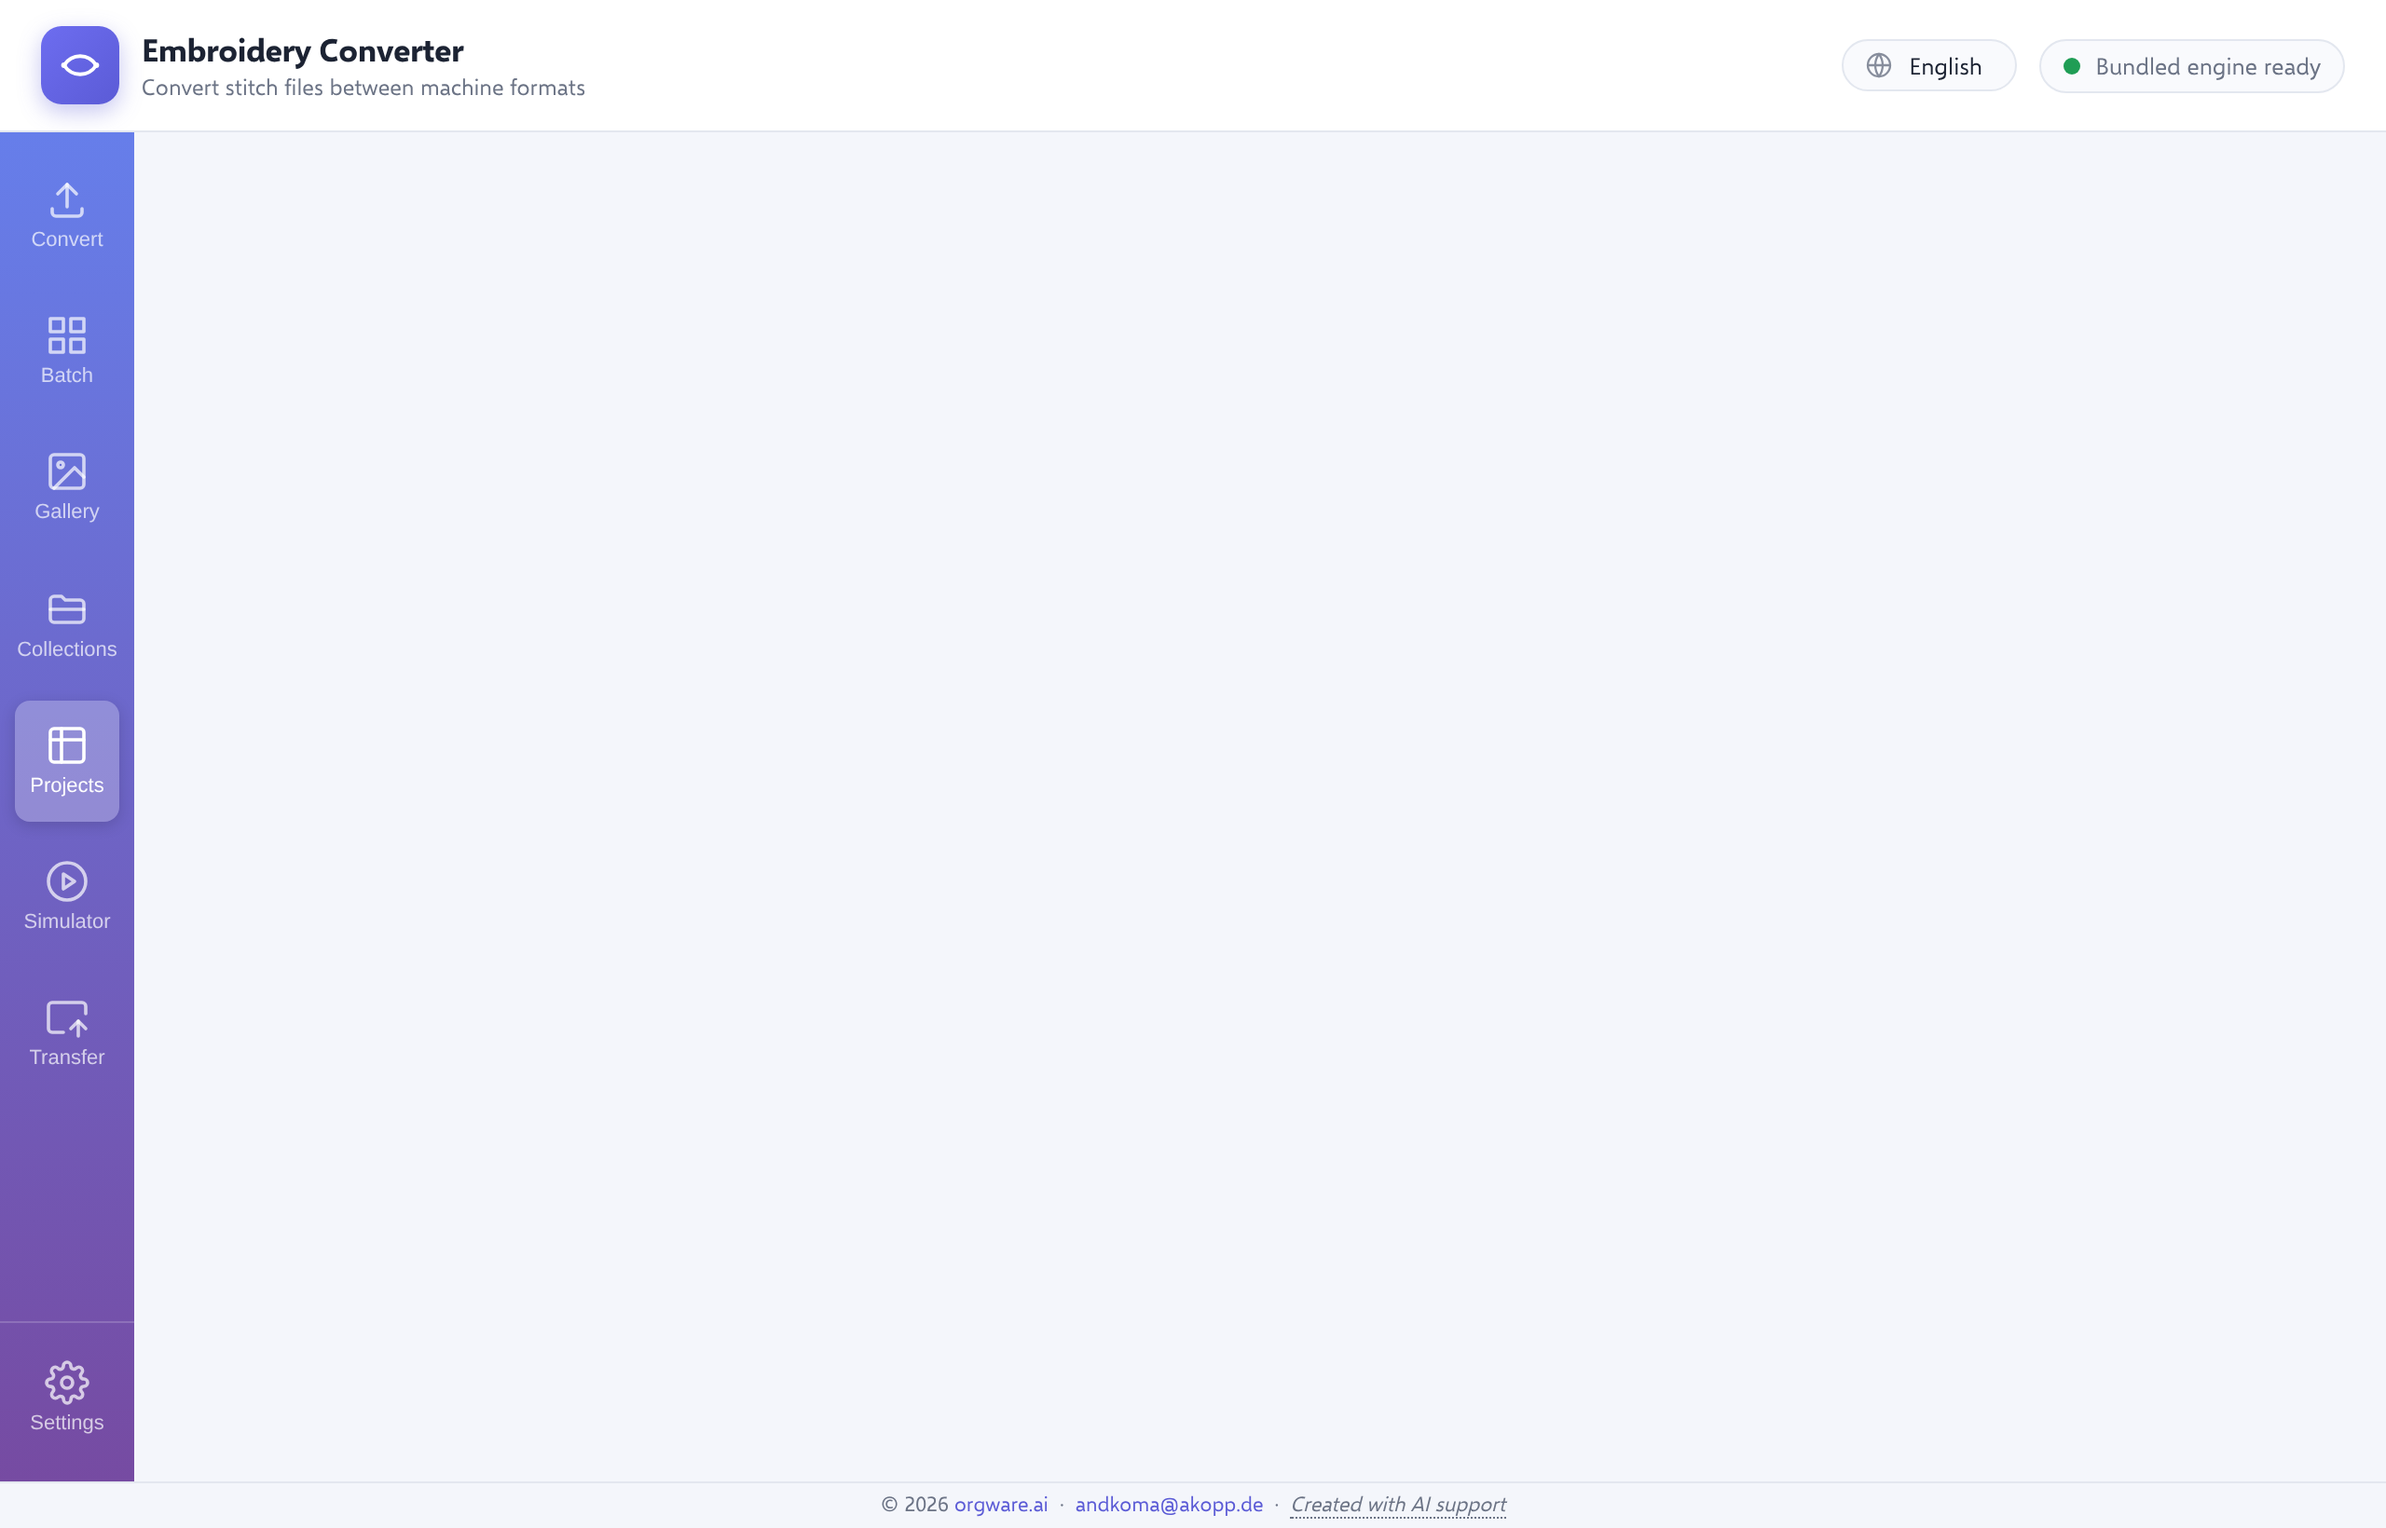
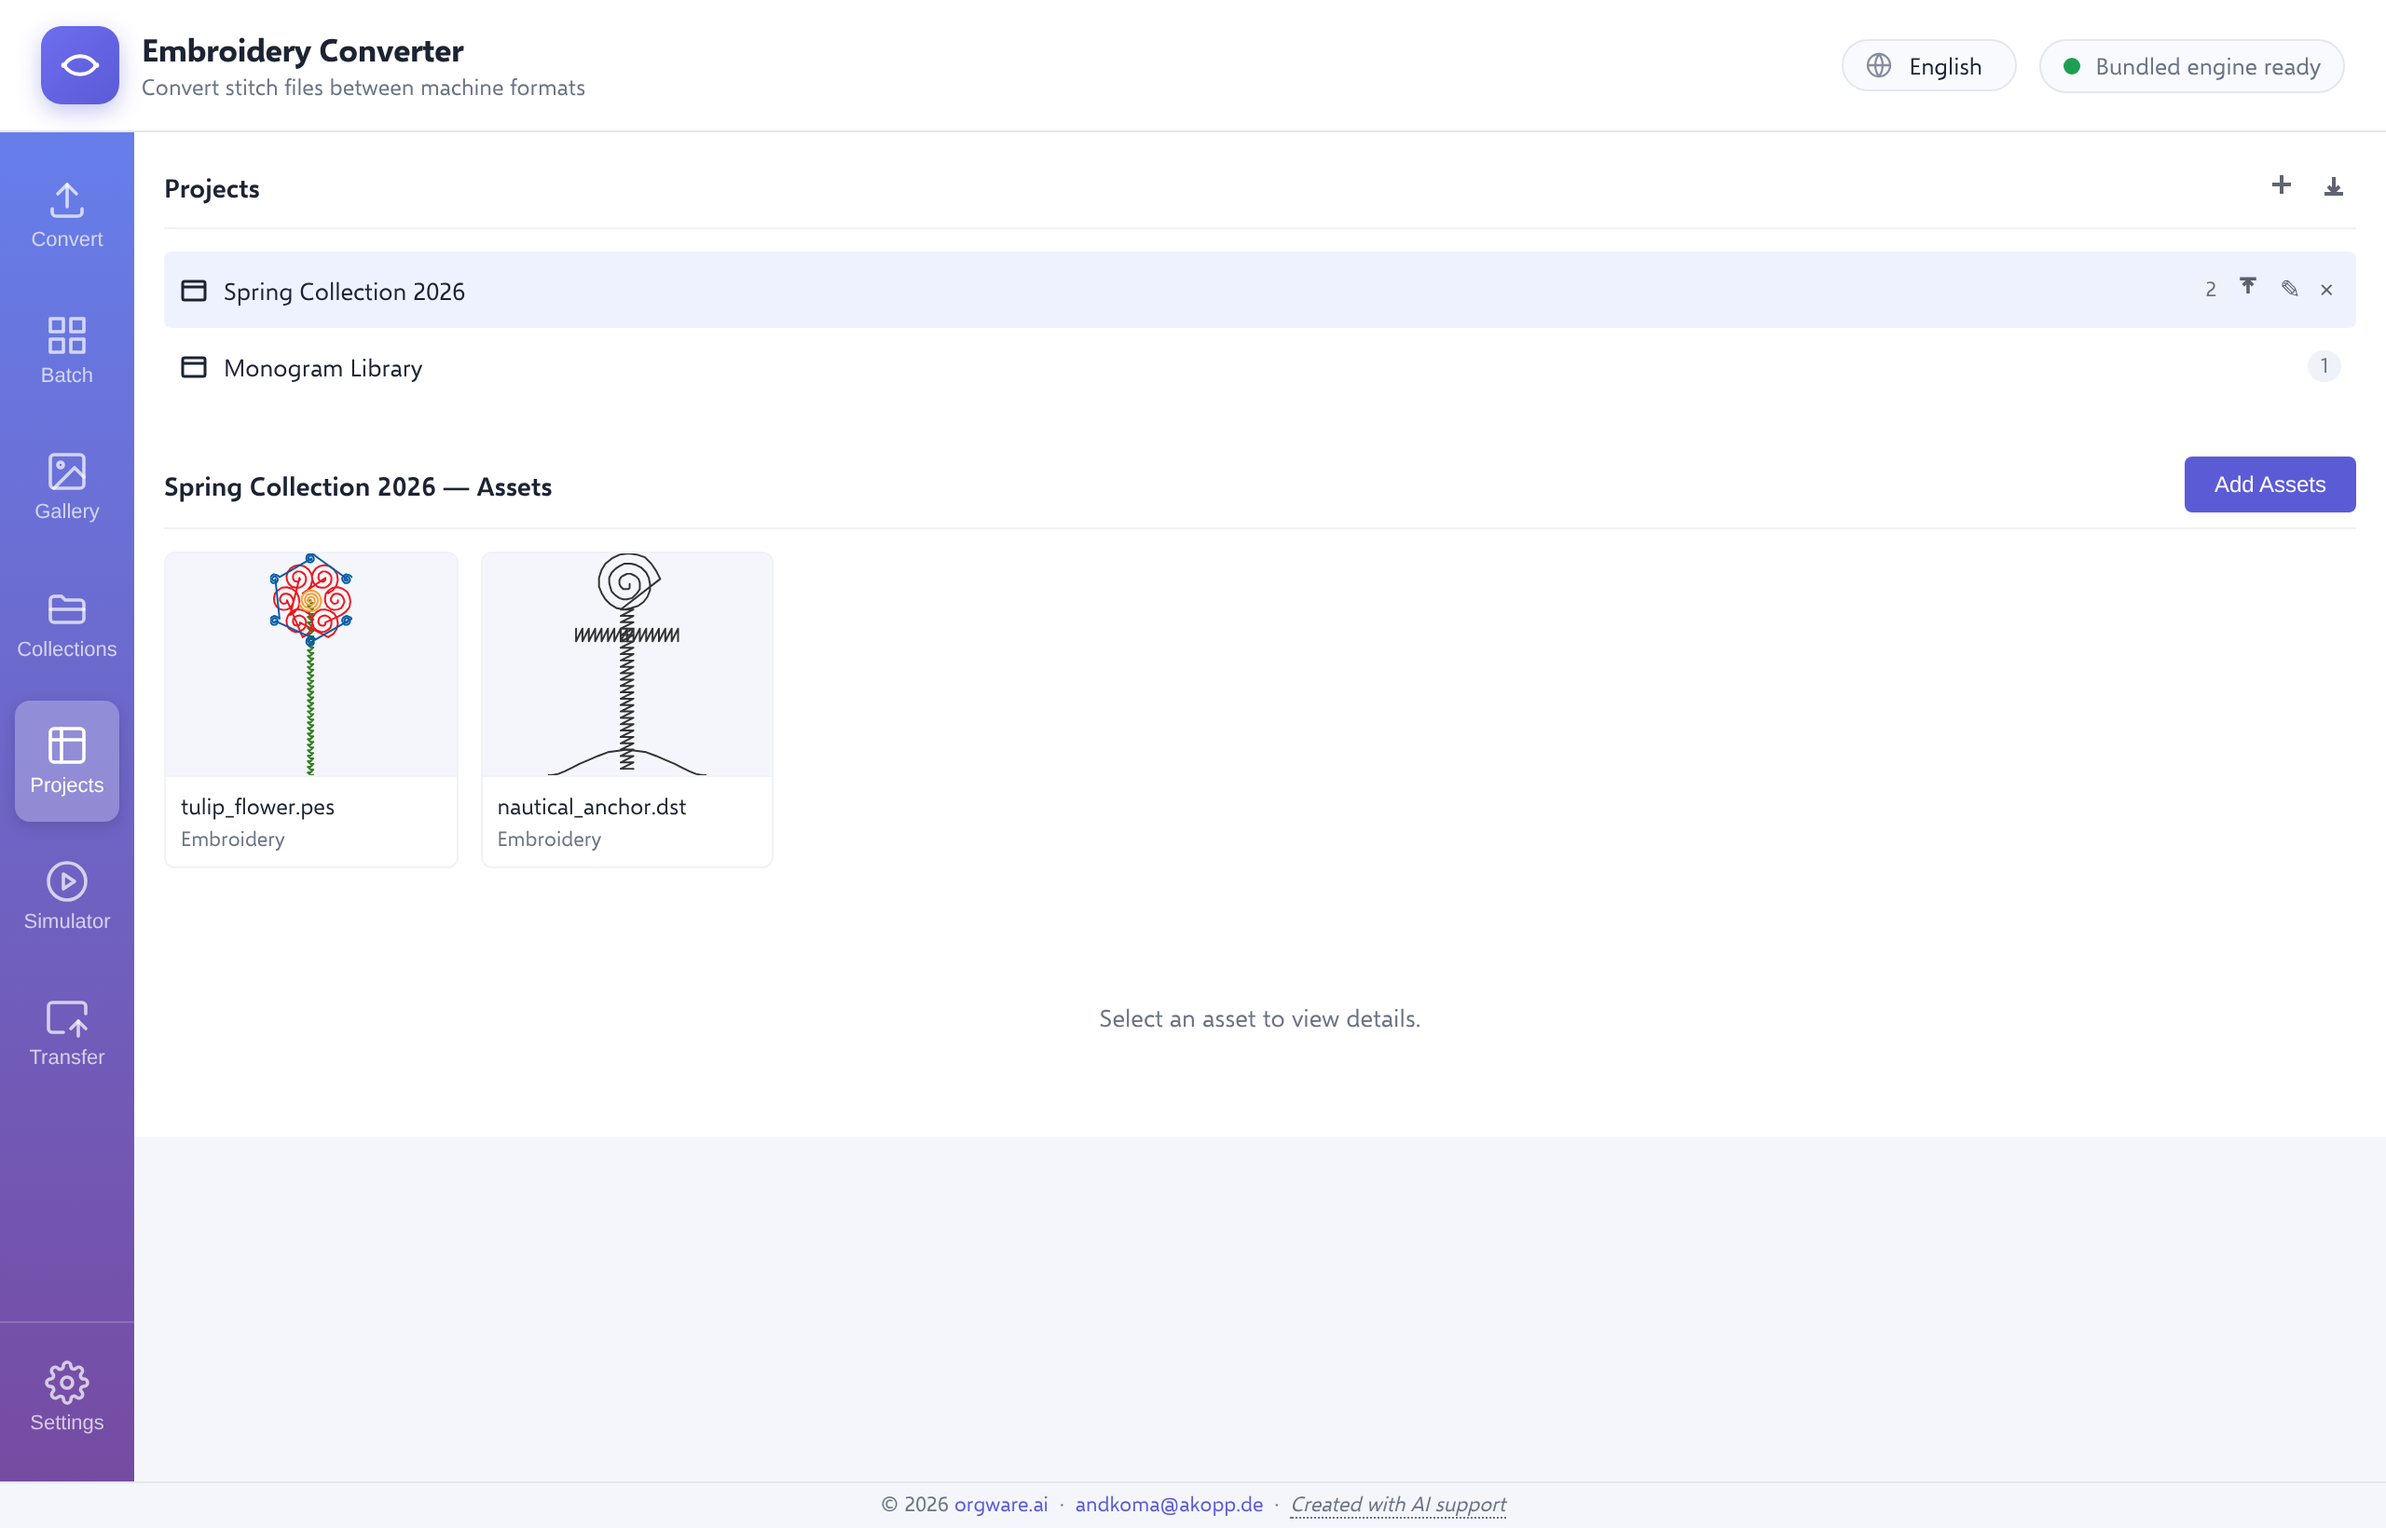
fix(projects): fix mount/events/addNode bugs; add detail screenshot
- mount() now accepts DOM element from router (was calling
  getElementById on a DOM element → always null → view never rendered)
- wireEvents() uses _hostEl module variable instead of searching
  for non-existent #projects element (→ no events ever wired)
- addProject()/addFolder() call _tree.addNode(parentId, name, extra)
  with correct argument shape (was passing a single object → broken nodes)
- make_screenshots.py: use wait_for_selector() for Projects nav so
  the screenshot waits for async mount() to populate the DOM
- add 07b-projects-detail.png showing selected asset + inspector panel

diff --git a/renderer/views/projects/projects.js b/renderer/views/projects/projects.js
@@ -70,6 +70,7 @@ let _tree = null;           // Grouping tree instance
 let _activeProject = null;  // Currently selected project ID
 let _activeAsset = null;    // Currently inspected asset ID
 let _abortCtrl = null;      // AbortController for event cleanup
+let _hostEl = null;         // Host DOM element for this view
 
 // ----------------------------------------------------------------
 // Persistence
@@ -105,10 +106,8 @@ function getTreeNodes() {
 function addProject(name) {
   if (!_tree) return;
   const id = uid();
-  _tree.addNode({
+  _tree.addNode(null, name || t('projects.newProject'), {
     id,
-    name: name || t('projects.newProject'),
-    parentId: null,
     type: 'project',
     createdAt: Date.now(),
     assets: [],
@@ -122,10 +121,8 @@ function addProject(name) {
 function addFolder(parentId, name) {
   if (!_tree) return;
   const id = uid();
-  _tree.addNode({
+  _tree.addNode(parentId, name || t('projects.newFolder'), {
     id,
-    name: name || t('projects.newFolder'),
-    parentId,
     type: 'folder',
     createdAt: Date.now(),
     assets: []
@@ -502,7 +499,7 @@ function formatDate(ms) {
 function wireEvents() {
   _abortCtrl = new AbortController();
   const sig = _abortCtrl.signal;
-  const host = document.getElementById(HOST_ID);
+  const host = _hostEl;
   if (!host) return;
   
   // Tree events
@@ -646,8 +643,9 @@ function saveInspectorFields() {
 // ----------------------------------------------------------------
 
 async function mount(viewHost) {
-  const host = document.getElementById(viewHost);
+  const host = typeof viewHost === 'string' ? document.getElementById(viewHost) : viewHost;
   if (!host) return;
+  _hostEl = host;
   
   // Inject scoped CSS
   const style = document.createElement('style');
@@ -936,6 +934,7 @@ function unmount() {
   _tree = null;
   _activeProject = null;
   _activeAsset = null;
+  _hostEl = null;
 }
 
 // ----------------------------------------------------------------

diff --git a/scripts/make_screenshots.py b/scripts/make_screenshots.py
@@ -345,22 +345,30 @@ def main():
             print("collections file select skipped:", e)
         shoot(page, "06-collections.png")
 
-        # ---- Projects: tree + assets grid + inspector ----
+        # ---- Projects: tree + assets grid ----
         page.click('.nav-item[data-view="projects"]')
-        page.wait_for_timeout(1200)
-        # Select the first project to show its assets.
+        # Wait for async mount() to complete and render tree nodes
         try:
-            page.click('.pv-tree-node', timeout=2500)
+            page.wait_for_selector('.pv-tree-node', timeout=5000)
+        except Exception as e:
+            print("projects tree wait failed:", e)
+        # Click first project to show assets grid
+        try:
+            page.click('.pv-tree-node-content', timeout=3000)
             page.wait_for_timeout(600)
         except Exception as e:
             print("projects tree select skipped:", e)
-        # Select an asset to populate the inspector.
+        # Screenshot: project list + assets grid
+        shoot(page, "07-projects.png")
+
+        # Screenshot 2: click first asset card to populate inspector
         try:
-            page.click('.pv-asset-card', timeout=2500)
+            page.wait_for_selector('.pv-asset-card', timeout=3000)
+            page.click('.pv-asset-card', timeout=3000)
             page.wait_for_timeout(500)
         except Exception as e:
             print("projects asset select skipped:", e)
-        shoot(page, "07-projects.png")
+        shoot(page, "07b-projects-detail.png")
 
         # ---- Settings: open the AI & Vision topic ----
         page.click('.nav-item[data-view="settings"]')
